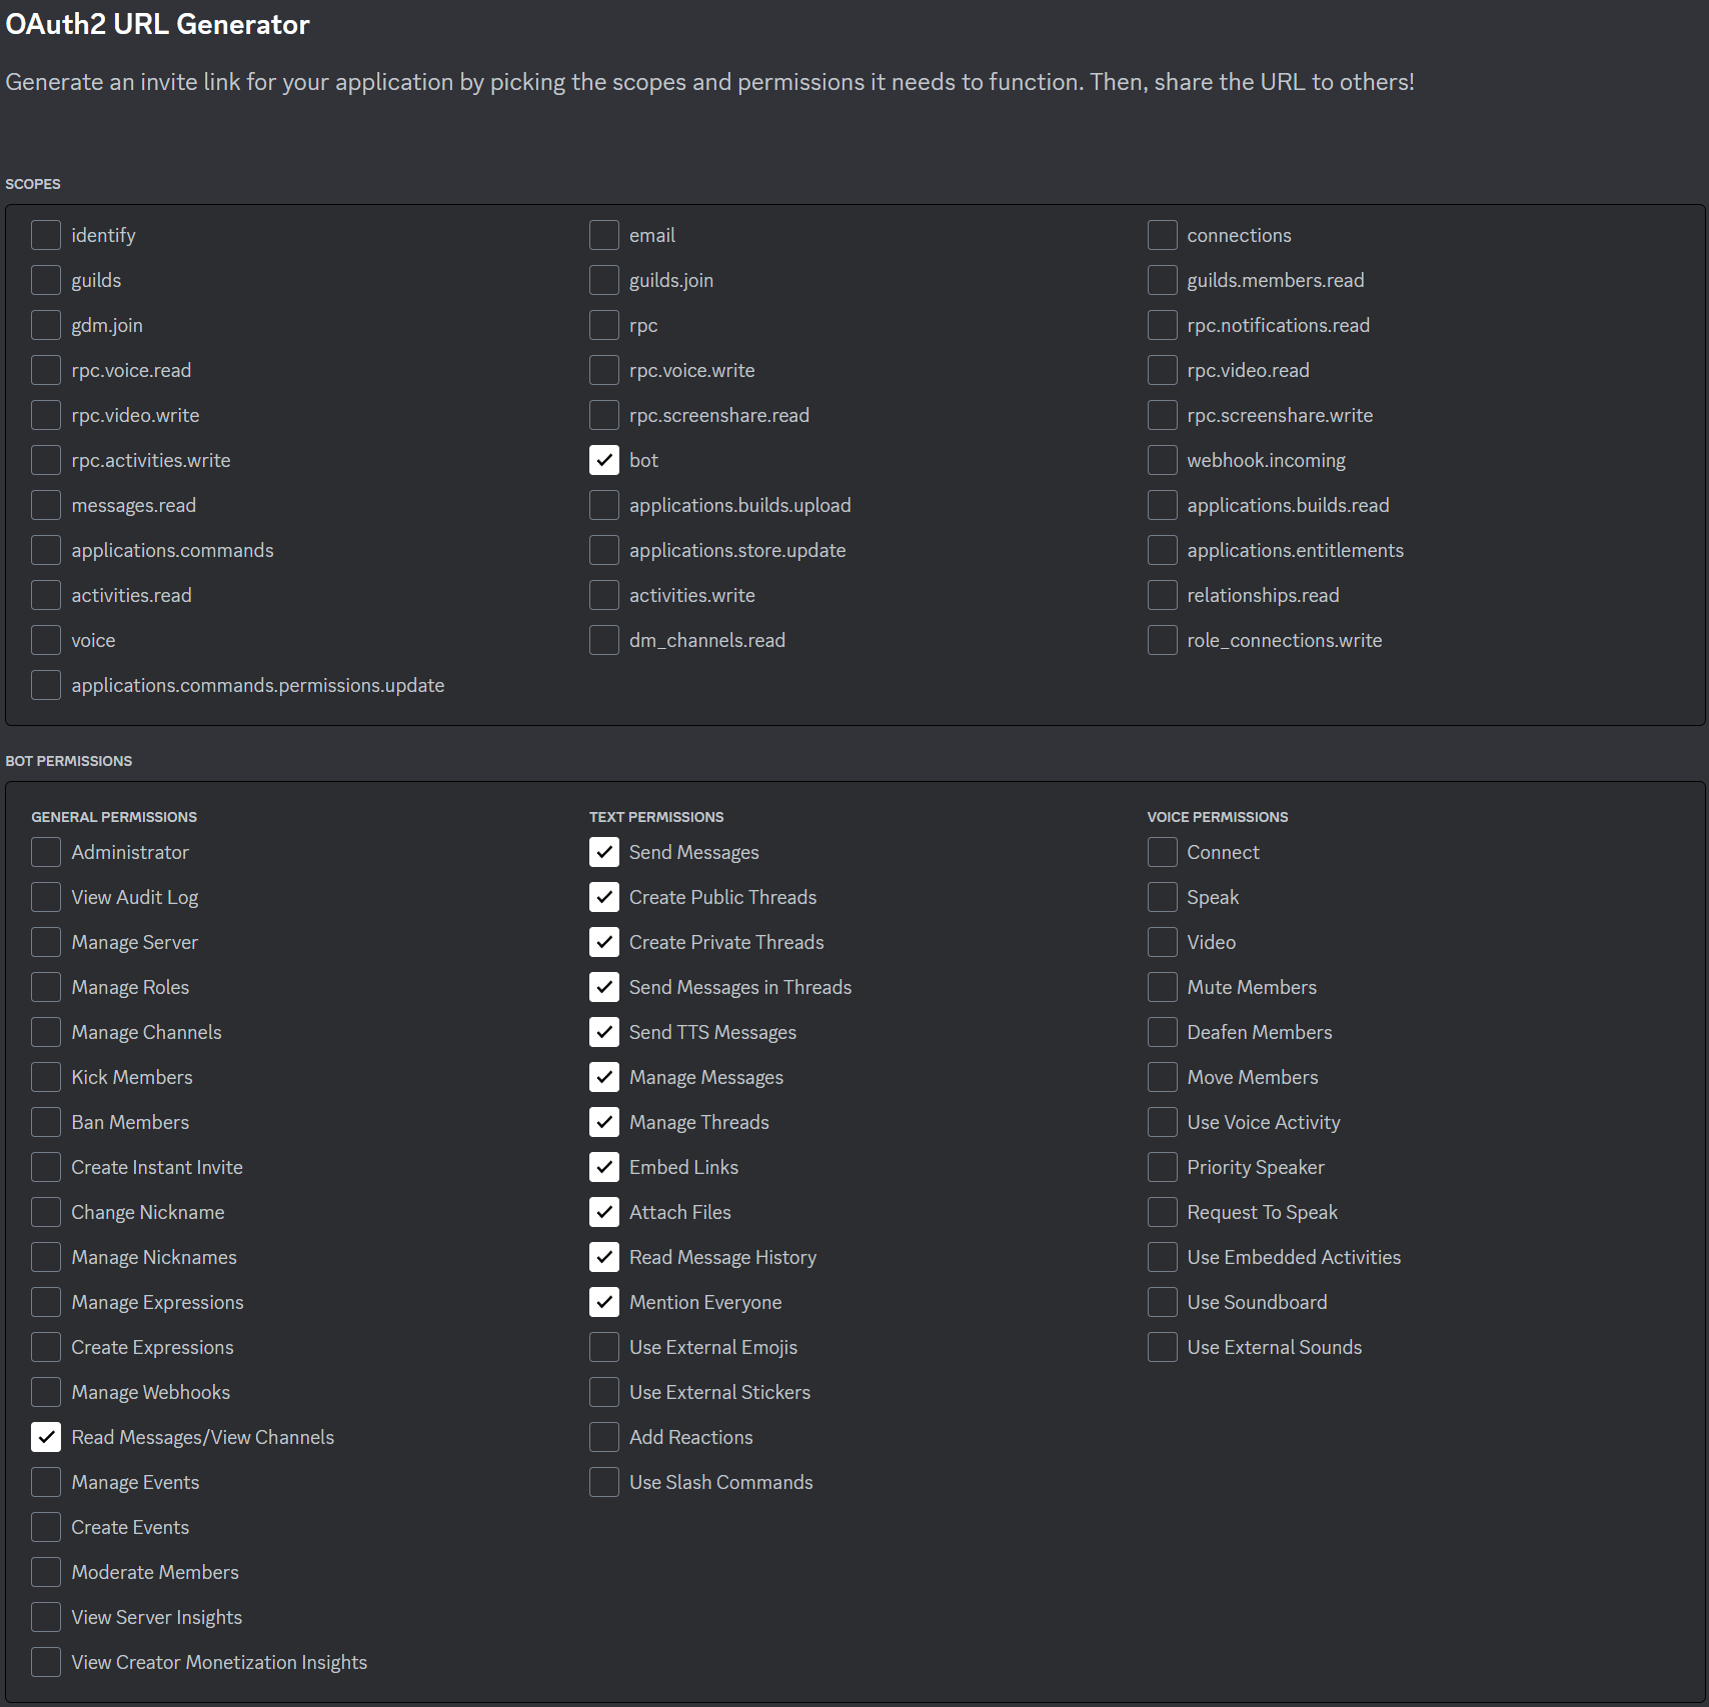
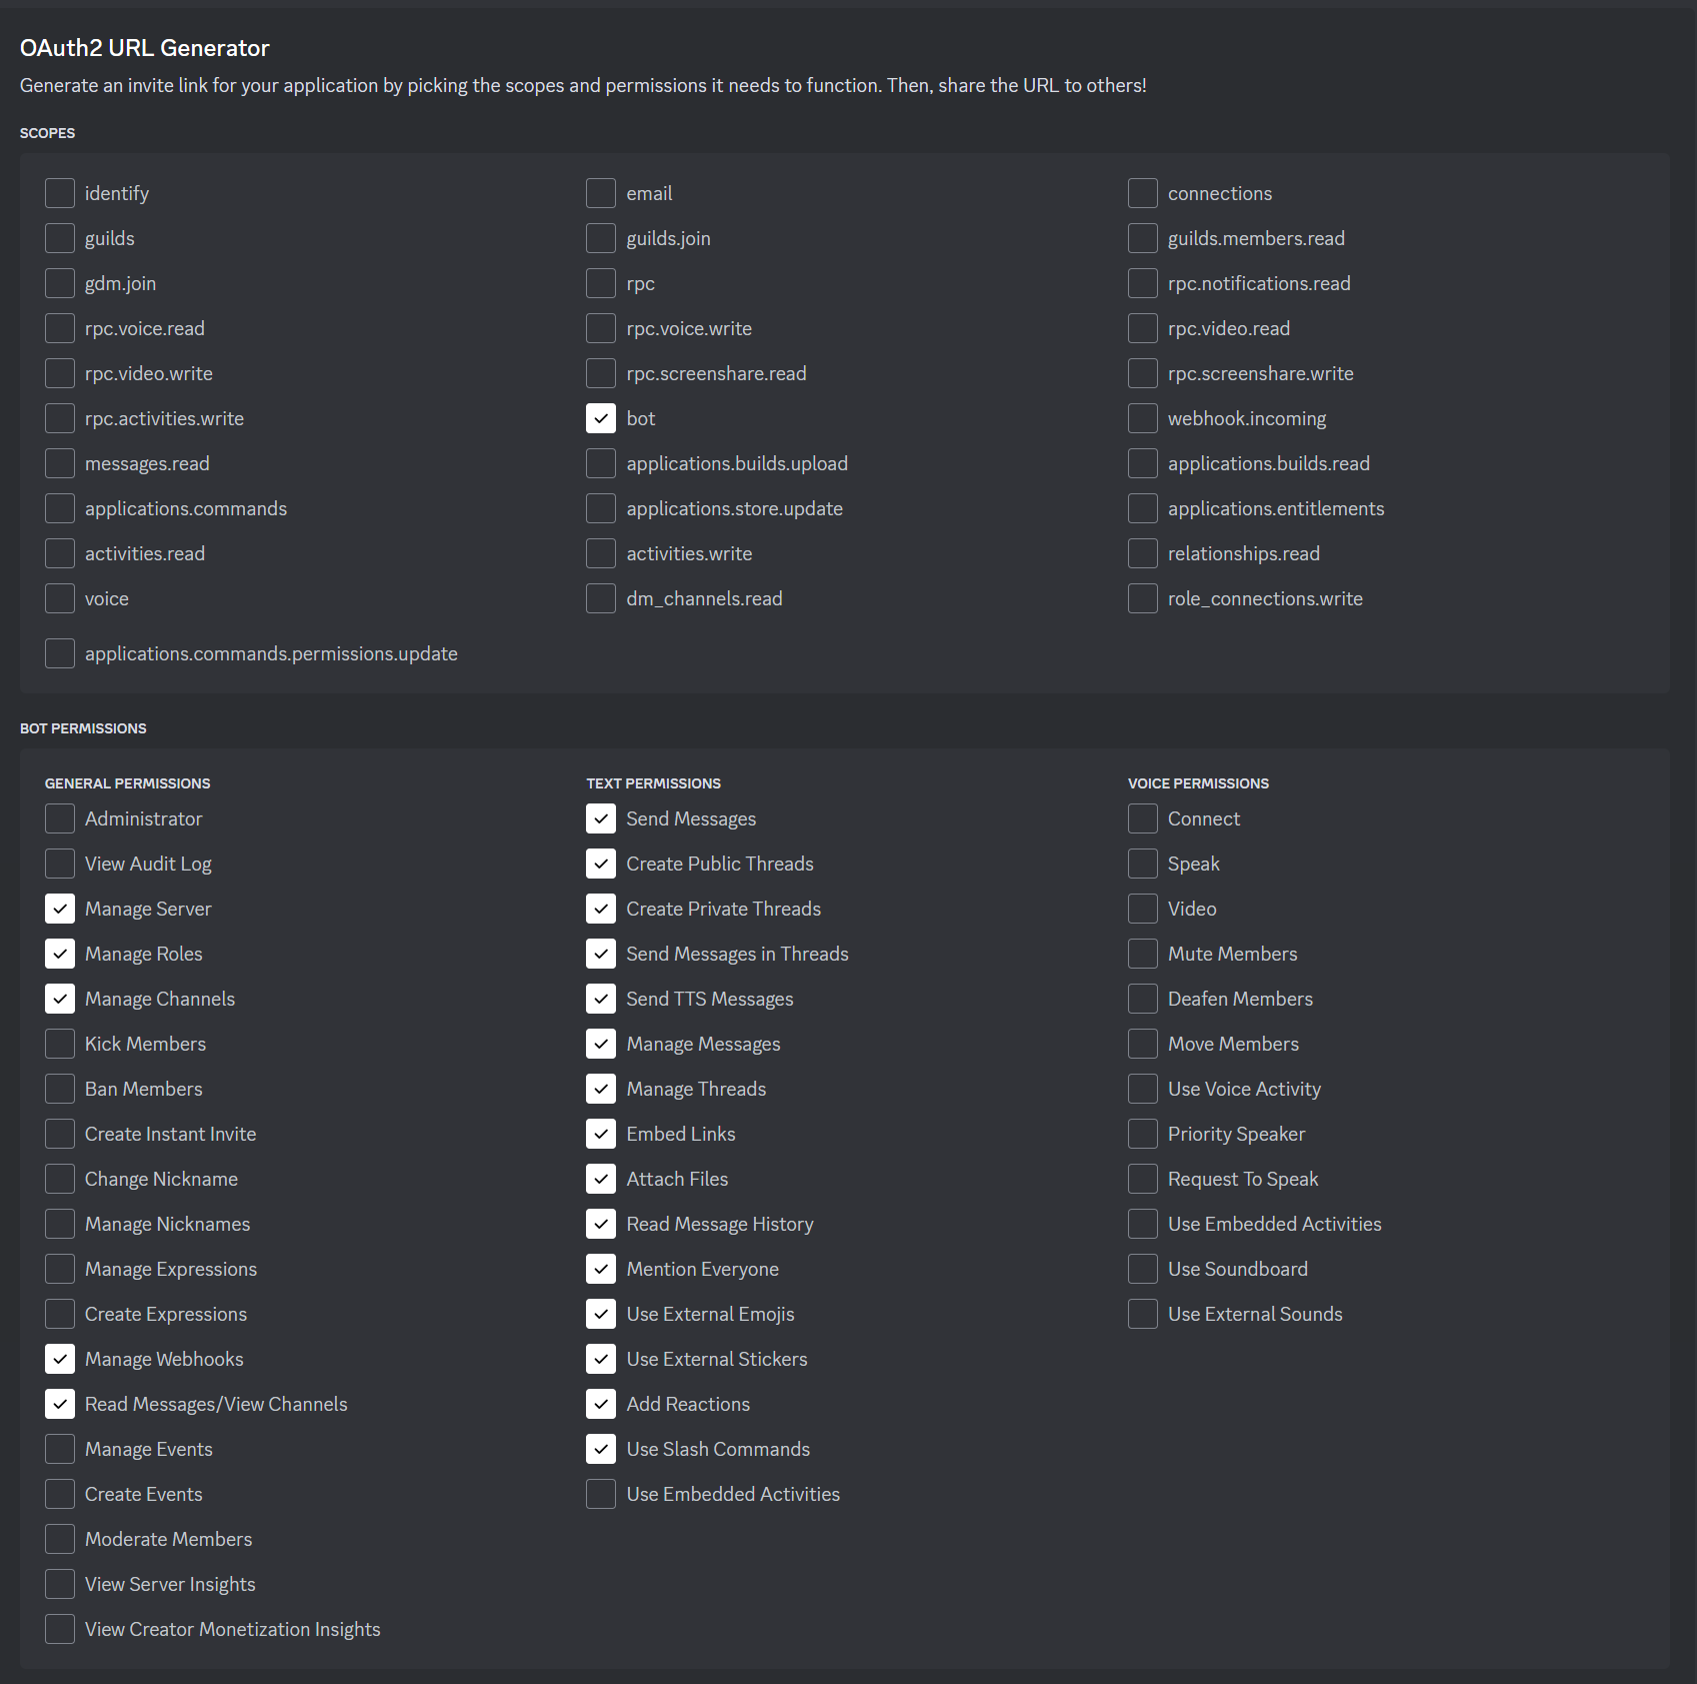
update

diff --git a/README.md b/README.md
@@ -2,18 +2,24 @@
 
 ![berner](./berner.png)
 
-## TODO
-
-- 次の説明を記述する
-  - 追加した環境変数
-  - 追加した新機能
-  - dockerイメージの起動方法が変わった件
-
 ## About
 
-http4sの素振りでdiscordのbotを書いてる  
-よくわからんまま書いたら闇鍋みたいになってる
-実装がひどいことになってきたので直したい
+http4s（もといcats/cats effect）の素振りでDiscordのBotを書いていた。  
+が、ひどいことになったためJDAで書き直した。  
+
+## 機能
+
+### hub
+
+チャンネル **prefix**-suffix が存在するとき、 **hub**-**prefix** に投稿を集約する。  
+(おそらく`hub-hub`チャンネルを作成すると無限ループを起こす。)  
+集約されるメッセージは直下のスレッドも対象となる。  
+また、メッセージが削除されたり編集された場合は転送先にも反映される。  
+
+### archiver
+
+`/archive` コマンドでチャンネルのメッセージをテキストファイル（パスワード付きzipファイル）にする。  
+ファイルのアップロード制限の考慮がされていないため履歴が多すぎるとうまく動作しない可能性がある。  
 
 ## マイグレーションについて
 
@@ -48,6 +54,8 @@ $ flyway -configFiles="flyway.sample.conf" migrate
 
 ![memo2](./memo2.png)
 
+不必要な権限もつけている。のでよしなに...
+
 ## Dockerイメージのビルド
 
 ```
@@ -60,10 +68,10 @@ Docker Plugin — sbt-native-packager 1.9.0 documentation : https://www.scala-sb
 
 ## Dockerイメージの実行例
 
-stoneream/berner general - Docker Hub : https://hub.docker.com/repository/docker/stoneream/berner/general
+stoneream/berner-bot general | Docker Hub : https://hub.docker.com/repository/docker/stoneream/berner-bot/general
 
 ```
-docker run -it --rm --env-file ./.env berner:VERSION
+docker run -it --rm --env-file ./.env stoneream/berner-bot:VERSION
 ```
 
 必要に応じて`--add-host=host.docker.internal:host-gateway`
@@ -78,10 +86,6 @@ docker run -it --rm --env-file ./.env berner:VERSION
 | BERNER_DB_DEFAULT_NAME     | データベースの名前       |                           |
 | BERNER_DB_DEFAULT_USER     | データベースのユーザー名 |                           |
 | BERNER_DB_DEFAULT_PASSWORD | データベースのパスワード |                           |
-
-## メトリクスの取得
-
-jmx-exporterを導入し、9090でlistenしている。  
 
 ### Ref
 
